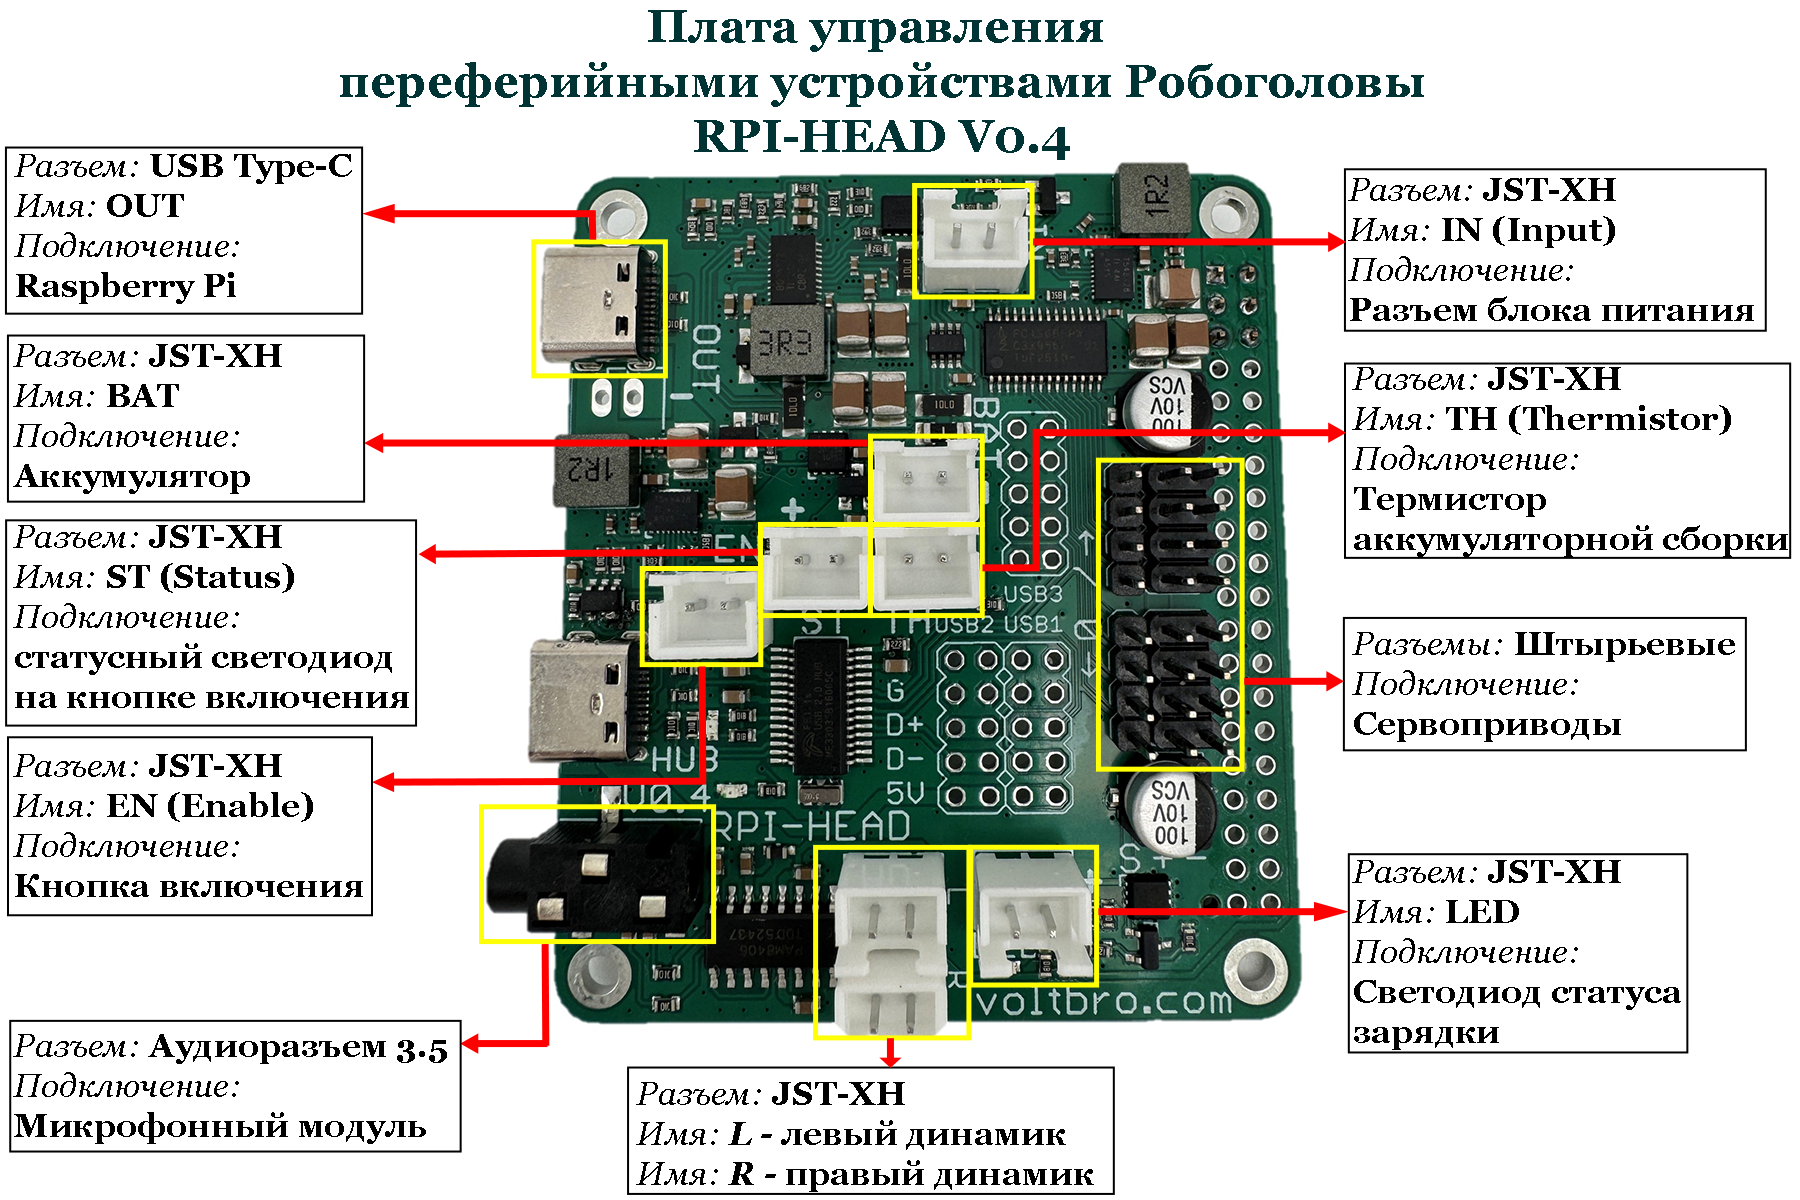
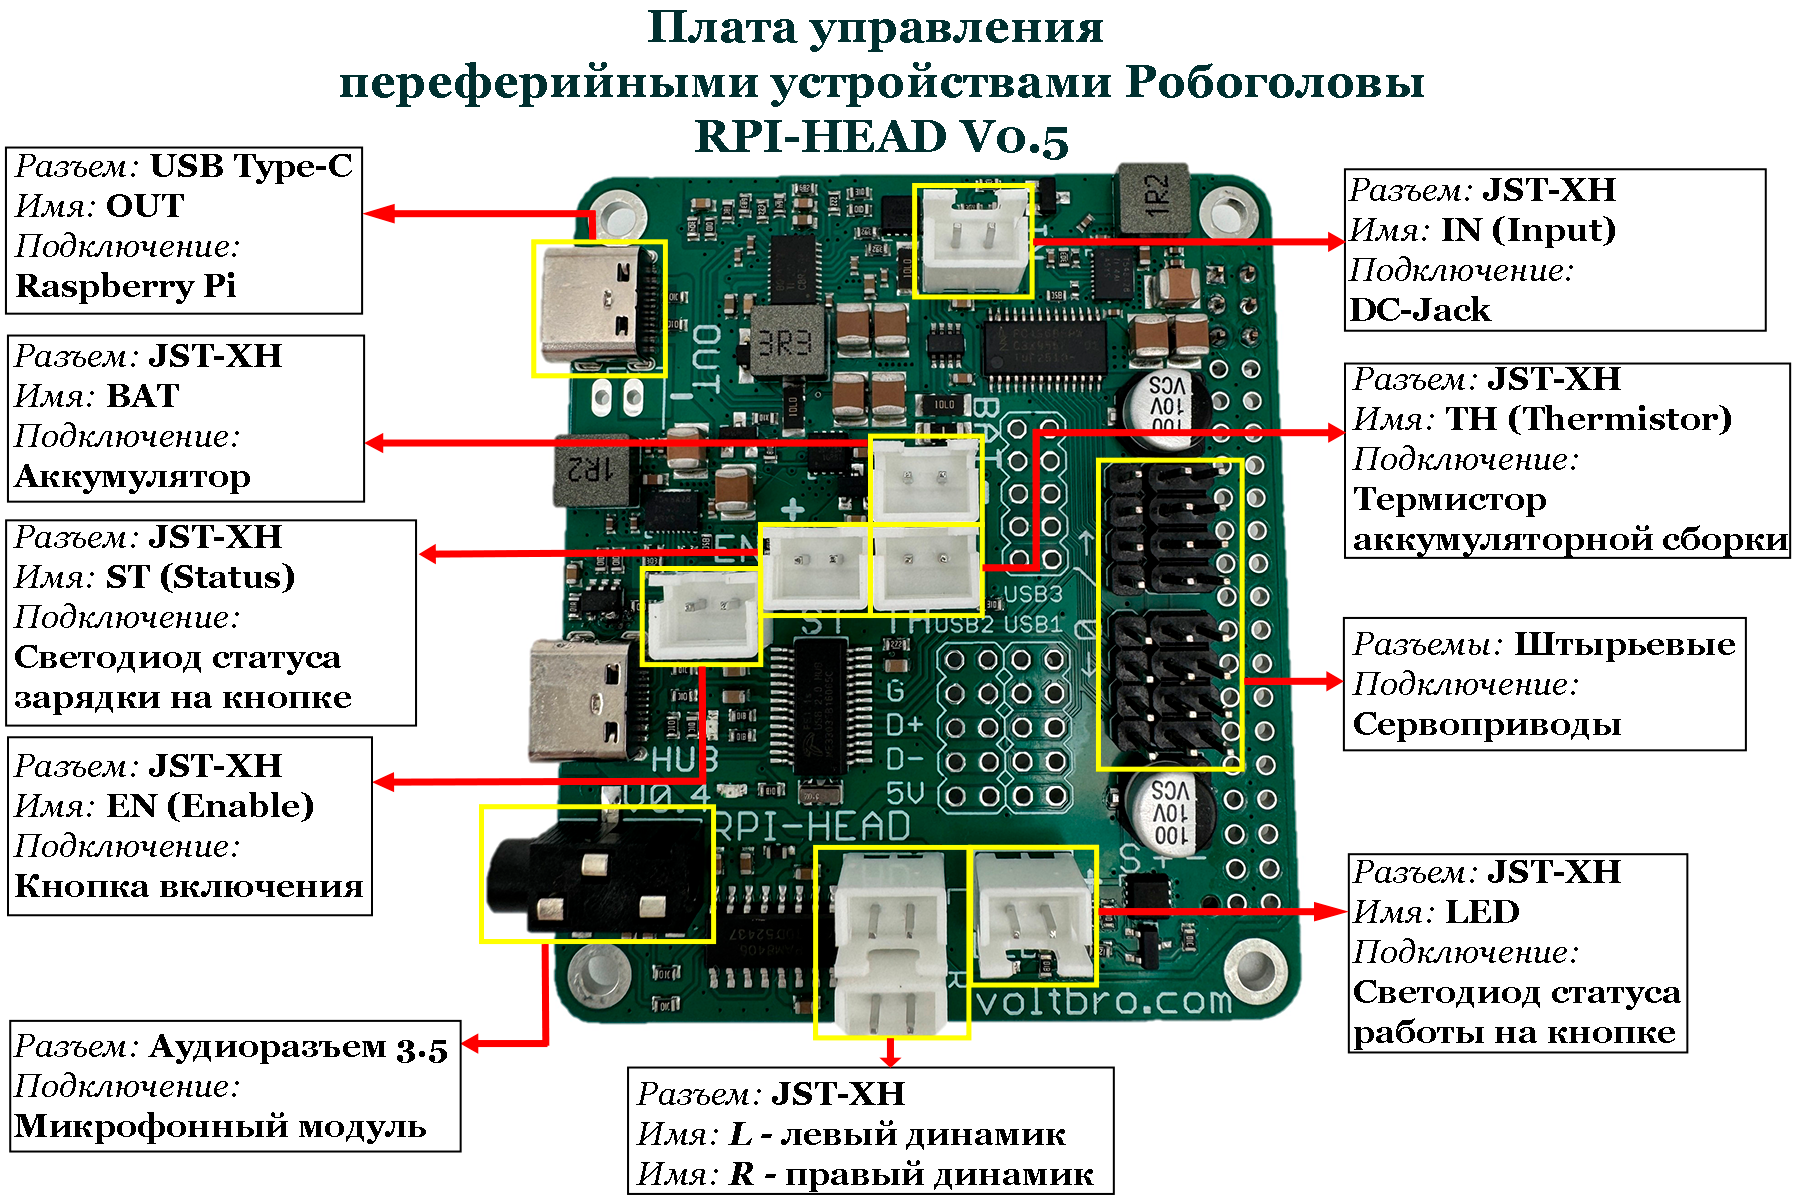
Изменение некоторых страниц до Bbrain 2.0

diff --git a/sidebars.js b/sidebars.js
@@ -15,6 +15,7 @@ const sidebars = {
         'introduction/20-equipment',
         'introduction/30-hardware-configuration',
         
+        /**
         // Подраздел "Программное обеспечение"
         {
           type: 'category',
@@ -32,6 +33,7 @@ const sidebars = {
             'introduction/49-usb-cam',
           ],
         },
+        */
         'introduction/50-useful-links',
       ],
     },
@@ -70,6 +72,7 @@ const sidebars = {
         'setting-up-device/20-connecting-without-pswd',
 
         // Подраздел "Изменение стандартных настроек устройства"
+         /**
         {
           type: 'category',
           label: 'Изменение стандартных настроек устройства',
@@ -82,13 +85,15 @@ const sidebars = {
             'setting-up-device/35-microphone-backlight-control',
           ],
         },
-        'setting-up-device/40-сhanging-standart-media-files',
-        'setting-up-device/50-changing-keywords',
+        */
+        //'setting-up-device/40-сhanging-standart-media-files',
+        //'setting-up-device/50-changing-keywords',
         'setting-up-device/60-updating-os-image',
       ],
     },
 
     // 5. 40-working-with-device (РАБОТА С УСТРОЙСТВОМ)
+    /** 
     {
       type: 'category',
       label: 'Работа с устройством',
@@ -126,6 +131,7 @@ const sidebars = {
         'interfacing_with_mors/40-mors_controller',
       ],
     },
+    */
   ],
 };
 

diff --git a/docs/10-introduction/30-hardware-configuration.md b/docs/10-introduction/30-hardware-configuration.md
@@ -14,7 +14,7 @@ title: Аппаратная конфигурация
 - **Микрофонный массив:** [ReSpeaker USB Mic Array](https://wiki.seeedstudio.com/ReSpeaker-USB-Mic-Array/)
 - **Дисплей:** Круглый сенсорный дисплей [Waveshare 5”, 1080×1080, IPS, HDMI, 10-точечный мультитач](https://www.waveshare.com/5inch-1080x1080-lcd.htm)
 - **Камера:** [HM2057](https://aliexpress.ru/item/1005007851850685.html?ysclid=mafnt76ot3711286221&sku_id=1200004254025260), 2 МП, угол обзора 60°
-- **Аккумулятор:** 2× Li-Ion 18650, 3.7 В
+- **Аккумулятор:** 2× Li-Ion 18650, 8.4 В
 - **Управление «ушами»:** сервоприводы EMax ES08MDII
 - **Управление «шеей»:** 2 степени свободы, сервоприводы Dsservo DS3218 PRO 20
 - **Динамики:** 2× стереодинамика
@@ -29,6 +29,6 @@ title: Аппаратная конфигурация
 - **Карта памяти:** microSD 16 Гб
 - **Кнопка включения с индикатором зарядки**
 
-### Схема платы управления переферийными устройствами Робоголовы - RPI-HEAD V0.5
+## Схема платы управления переферийными устройствами
 
 ![Плата управления переферийными устройствами Робоголовы - RPI-HEAD V0.5](attachments/RPI-HEAD.png)

diff --git a/docs/30-setting-up-device/10-setting-up-Wi-Fi-connection.md b/docs/30-setting-up-device/10-setting-up-Wi-Fi-connection.md
@@ -33,7 +33,7 @@ password: turtlew001
 
 ### Настройка подключения к новой Wi-Fi через SD карту {#new-wi-fi-sd}
 
-На SD-карте, содержащей готовый образ Ubuntu 20.04.6 для запуска на роботе, есть два раздела разного размера. Обычно они называются `system-boot` и `writable`, но в некоторых случаях система может присвоить им другие имена при подключении к компьютеру:
+На SD-карте, содержащей готовый образ Ubuntu 24.04.3 для запуска на роботе, есть два раздела разного размера. Обычно они называются `system-boot` и `writable`, но в некоторых случаях система может присвоить им другие имена при подключении к компьютеру:
 
 - **system-boot** (FAT32)  
   - Небольшой раздел (несколько сотен МБ), необходимый для загрузки.  

diff --git a/docs/10-introduction/50-useful-links.md b/docs/10-introduction/50-useful-links.md
@@ -7,13 +7,10 @@ title: Полезные ссылки
 Набор полезных ресурсов для работы с Робоголовой Bbrain и экосистемой проекта «Братья Вольт».
 
 - **Репозиторий с основным ROS-пакетом**  
-  [https://github.com/voltbro/robohead](https://github.com/voltbro/robohead) 
+  [https://github.com/voltbro/robohead2](https://github.com/voltbro/robohead2) 
 
 - **Образы операционной системы для роботизированной головы**  
   [https://disk.yandex.ru/d/NliXCVUiNLG3eg](https://disk.yandex.ru/d/NliXCVUiNLG3eg)
-
-- **Базовый курс по ROS Noetic**  
-  [https://voltbro.gitbook.io/new_bazovyi-kurs-po-ros](https://voltbro.gitbook.io/new_bazovyi-kurs-po-ros)
 
 - **Образовательный портал с уроками ROS**  
   [http://learn.voltbro.ru](http://learn.voltbro.ru)

diff --git a/docs/20-getting-started/30-connecting-to-device.md b/docs/20-getting-started/30-connecting-to-device.md
@@ -60,14 +60,8 @@ password: turtlew001
 После подключения к Робоголове рекомендуется перейти в репозиторий `robohead` и обновить его до последней версии:
 
 ```bash
-cd ~/robohead_ws/src/robohead
+cd ~/robohead_ws/src/robohead2
 git pull
 ```
 
 > ℹ **Совет:** Для первого подключения используйте SSH, чтобы проверить доступность устройства.
-
-Далее:
-- Подключение по SSH [→](31-connecting-via-ssh.md)
-- Подключение через VSCode [→](32-connecting-via-vscode.md)
-- Подключение по SFTP [→](33-connecting-via-sftp.md)
-- Настройка SSH-ключей (подключение без ввода пароля) [→](../30-setting-up-device/20-connecting-without-pswd.md)

diff --git a/docs/20-getting-started/10-configuring-workplace-software.md b/docs/20-getting-started/10-configuring-workplace-software.md
@@ -44,7 +44,7 @@ title: Настройка ПО рабочего места
    - Скачайте образ ОС с официального сайта: [Ubuntu 24.04.3 LTS](https://releases.ubuntu.com/noble/)   
    - Создайте загрузочную флешку (например, с помощью [Rufus](https://rufus.ie))
 
-2. **Установите ROS Noetic Ninjemys**  
+2. **Установите ROS Jazzy Jalisco**  
 
    - Следуйте инструкциям на официальном сайте: [ROS Jazzy Installation Guide](https://docs.ros.org/en/jazzy/Installation/Ubuntu-Install-Debs.html)
 

diff --git a/docs/30-setting-up-device/60-updating-os-image.md b/docs/30-setting-up-device/60-updating-os-image.md
@@ -169,7 +169,7 @@ title: Обновление образа операционной системы
 1. Перейдите в репозиторий `robohead`:
 
    ```bash
-   cd ~/robohead_ws/src/robohead
+   cd ~/robohead_ws/src/robohead2
    ```
 
 2. Синхронизируйте его, чтобы иметь актуальную версию:
